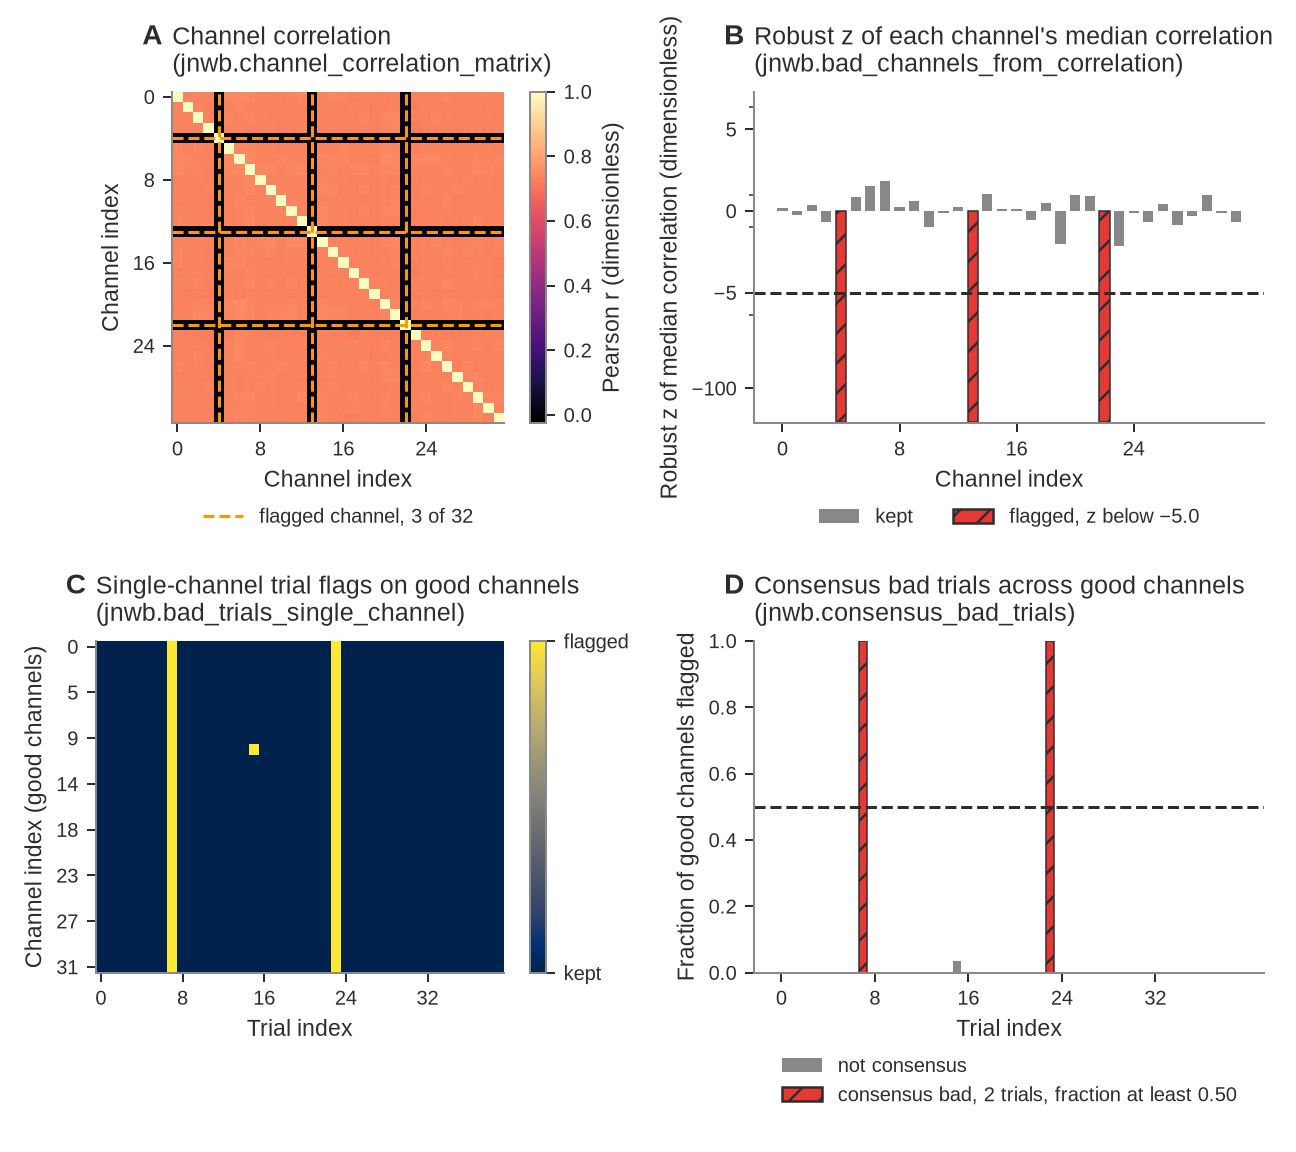
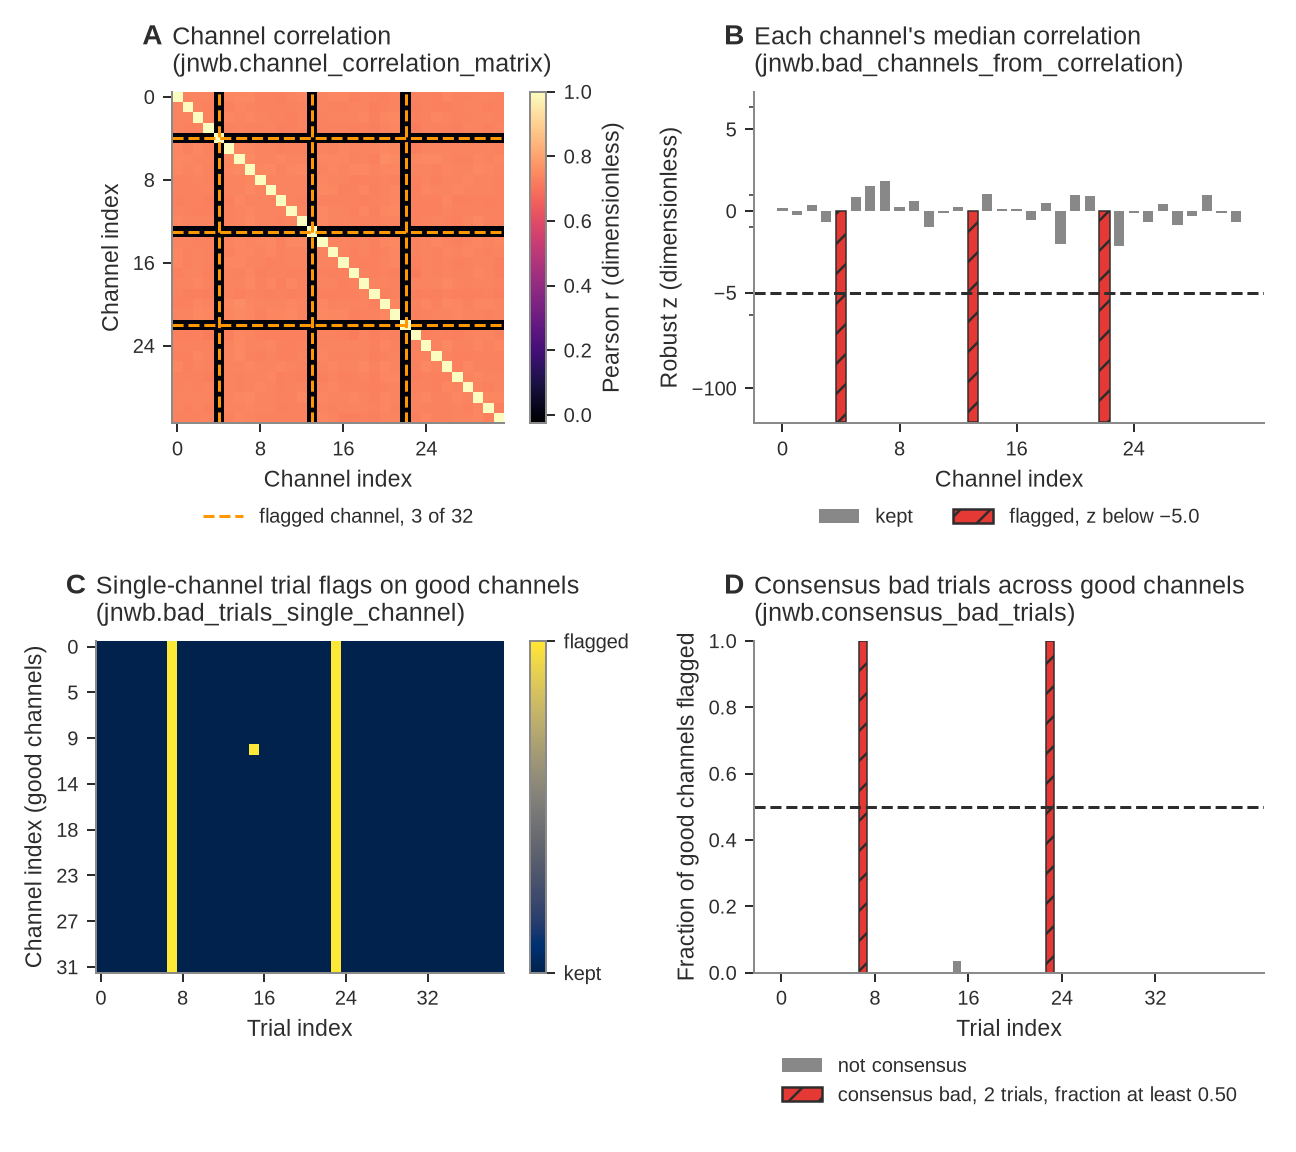
fig20 panel B: shorter title and y label, so the text stays on the canvas under the fallback font

Changed region(s): [[0.5864, 0.0, 0.8951, 0.0625], [0.4938, 0.0312, 0.5247, 0.4375], [0.9259, 0.0312, 0.9568, 0.0625]]

diff --git a/docs/generate_figures.py b/docs/generate_figures.py
@@ -1343,13 +1343,13 @@ def fig20_bad_channels_and_trials():
     ax_b.set_yticklabels([style.num(tick, ".0f") for tick in z_ticks])
     ax_b.set_xticks(channels[::8])
     ax_b.set_xlabel("Channel index")
-    ax_b.set_ylabel("Robust z of median correlation (dimensionless)")
+    ax_b.set_ylabel("Robust z (dimensionless)")
     ax_b.legend(handles=[
         Patch(facecolor=style.NEUTRAL, label="kept"),
         Patch(facecolor=style.SERIES[3], edgecolor=C_DARK, hatch="//",
               label=f"flagged, z below {style.num(-FIG20_Z_THRESH, '.1f')}"),
     ], frameon=False, loc="upper center", bbox_to_anchor=(0.5, -0.2), ncol=2)
-    style.panel_title(ax_b, "B", "Robust z of each channel's median correlation\n(jnwb.bad_channels_from_correlation)")
+    style.panel_title(ax_b, "B", "Each channel's median correlation\n(jnwb.bad_channels_from_correlation)")
 
     image_c = ax_c.imshow(per_channel.astype(float), cmap="cividis", vmin=0.0, vmax=1.0, aspect="auto",
                           interpolation="nearest")
